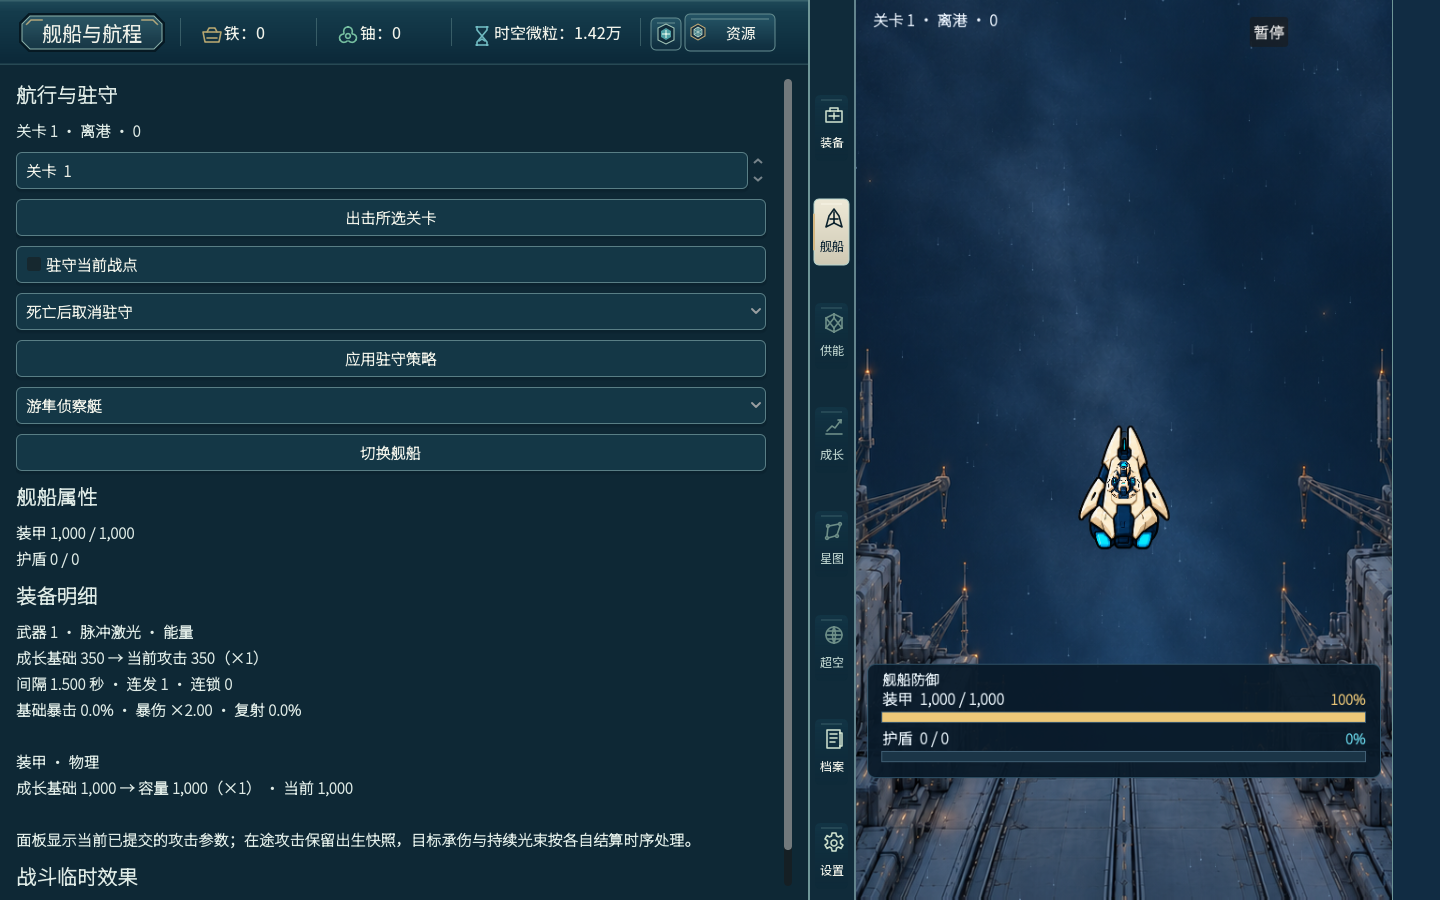
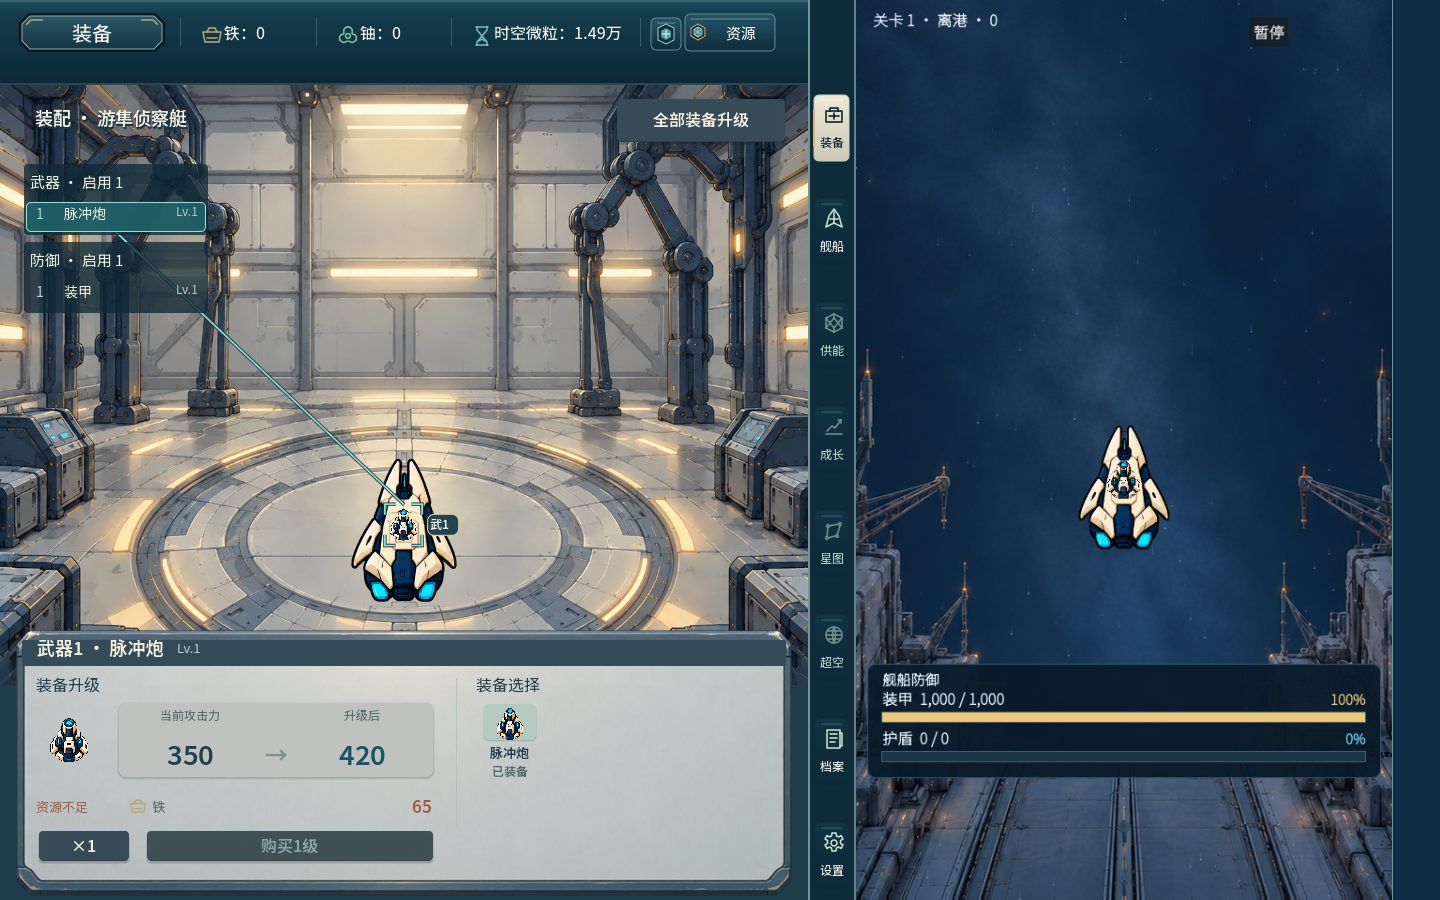
Correct equipment integration frame after explicit navigation

diff --git a/space-battleship/docs/ui-redesign-plan/shared-host-shell/runtime-clear-zone/README.md b/space-battleship/docs/ui-redesign-plan/shared-host-shell/runtime-clear-zone/README.md
@@ -45,3 +45,5 @@ Godot `4.7.2`，桌面 `1440×900`，正常 main 入口实例。整屏：[装备
 安装端口只改本分支 `main.gd` 和公共 `zone_shell.gd`：反应堆场景作为 `808×900` 左区场景，由现有公共顶栏和导航驱动；绑定 Session 的反应堆输入、Owner 只读 `presentation_model`／`purchase_preview`／`purchase_max_preview`、支付与发布回调，Owner 的呈现变更信号及 Economy 已有的 `display_changed` 失效通知。公共导航增加独立“供能”入口，保留“成长”页的科研／强化；旧 `ReactorPanel` 构造路径及不再引用的 `src/ui/reactor_panel.gd` 已移除，反应堆场景和装备场景互斥显示。装备原自绘顶栏继续经 `set_shared_host(true, null)` 隐藏，只保留公共顶栏；没有叠新底板遮住旧控件。另加 `nav-reactor.svg`，与既有导航同线宽/尺寸。原 1440×900 战斗投影、输入通路和 89dc 铁掉落修正保持。
 
 同版 Godot 4.7.2 正常主场景的[装备整屏](evidence/integration-equipment-1440x900.png)、[反应堆零供能](evidence/integration-reactor-zero-1440x900.png)、[×10 报价](evidence/integration-reactor-x10-1440x900.png)、[均分生效](evidence/integration-reactor-active-1440x900.png)、[切回舰船](evidence/integration-ship-return-1440x900.png)，及短工作帧[起点](evidence/integration-reactor-motion-00.png)、[中点](evidence/integration-reactor-motion-02.png)、[末帧](evidence/integration-reactor-motion-05.png)，均以原尺寸复看公共栏、接缝、导航、内区和战斗空间。[固定驱动](evidence/module-integration-driver.gd.txt)在正常实例中使用 Campaign 公开恢复端口临时开放反应堆与凝聚、Economy 公开入账提供预算；[运行摘要](evidence/module-integration-runtime.txt)确认导航互斥、×10 只改报价且等级不变、均分命令成功、切回舰船。此为接入观察，**不证明自然关卡解锁、自然收入、购买成交、极端值或其他模块的完整动态**；原组对各自固定版本的限定审查不替代本组合的原布局审，也不把受影响检查通过等同整体视觉通过。当前候选仍待原审与用户判断，未获准合 main。
+
+`b5ec2350` 初次提交的 `integration-equipment-1440x900.png` 实际是舰船页：截图驱动读取正常实例后未显式切到装备，沿用了本地持久化的舰船页面偏好。这是取帧错误，未发现对应业务路由缺陷。现用[装备单页实际取帧驱动](evidence/equipment-only-capture.gd.txt)经公共装备导航切页，先断言顶部标题“装备”、装备导航选中、装备场景可见、成长与反应堆场景隐藏，再覆盖上面的装备整屏；图中标题、导航与机库正文一致。[运行摘要](evidence/module-integration-runtime.txt)附这次取帧状态。反应堆原有图证不重采；原组另在处理购级后小占比设备显示问题，因此上述零供能、报价、均分和短工作帧不能外推升级后状态。
